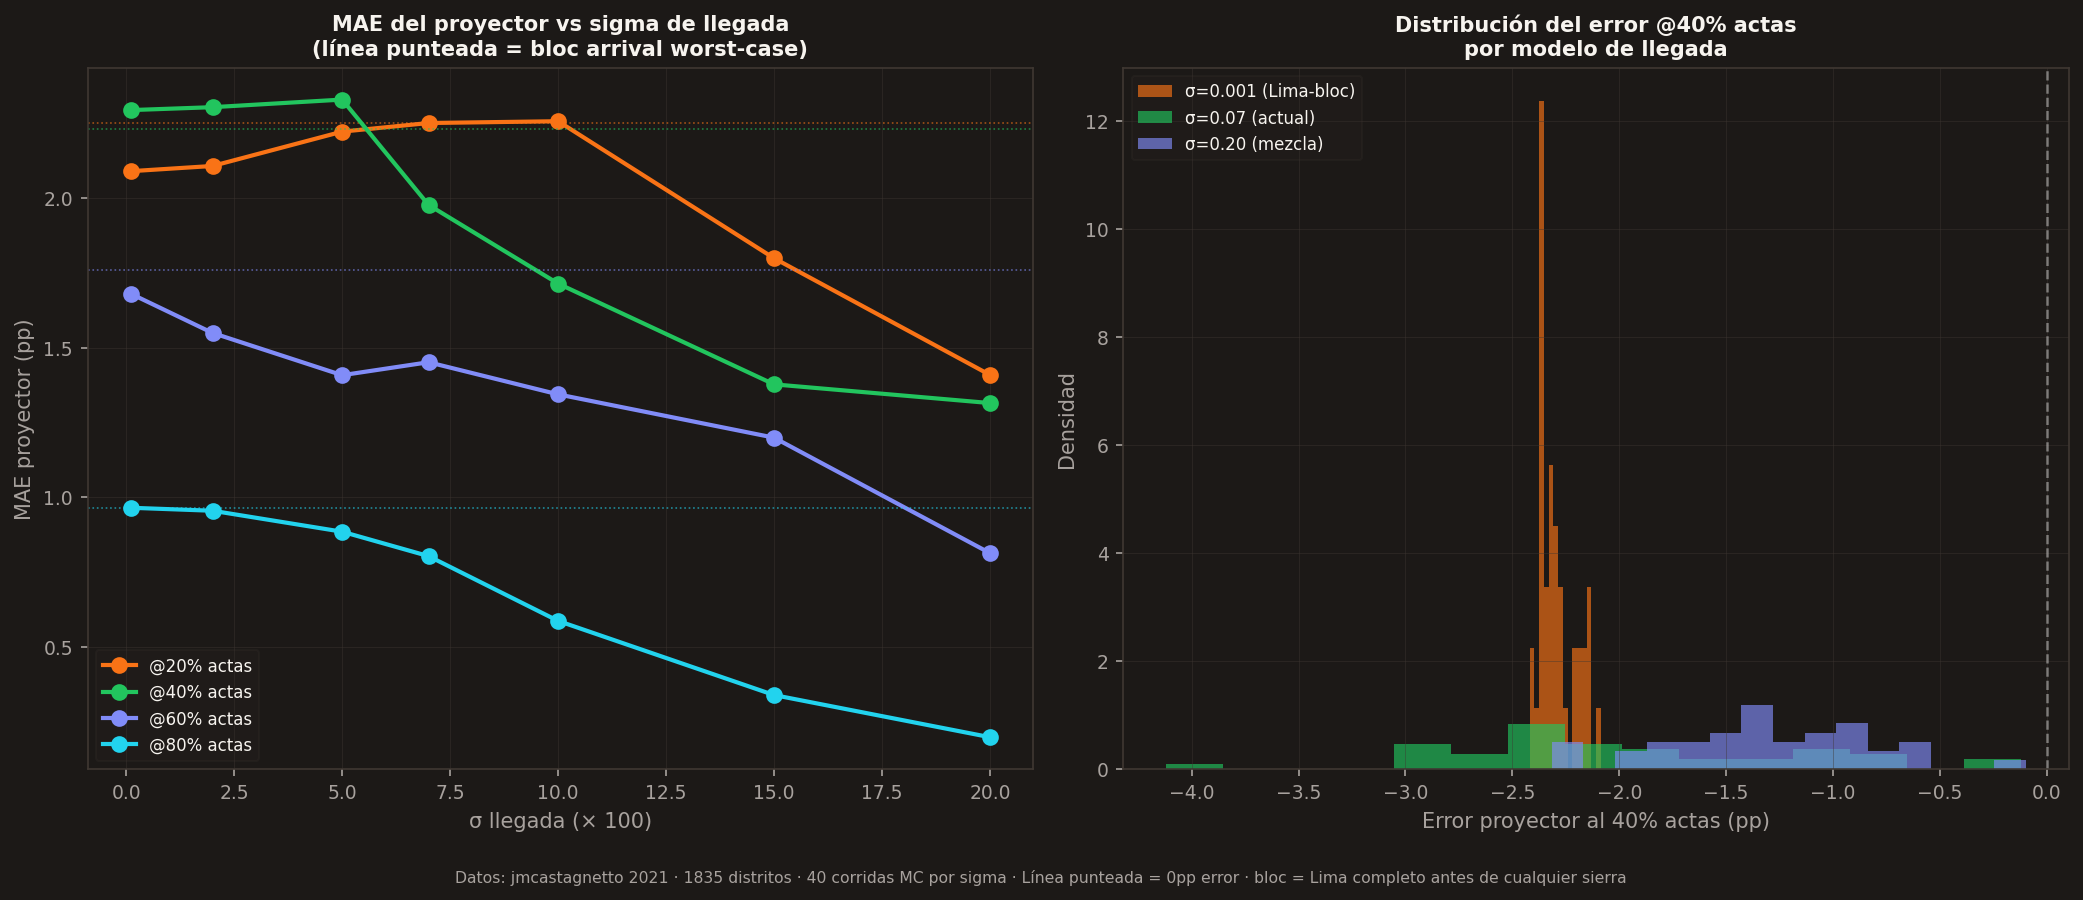
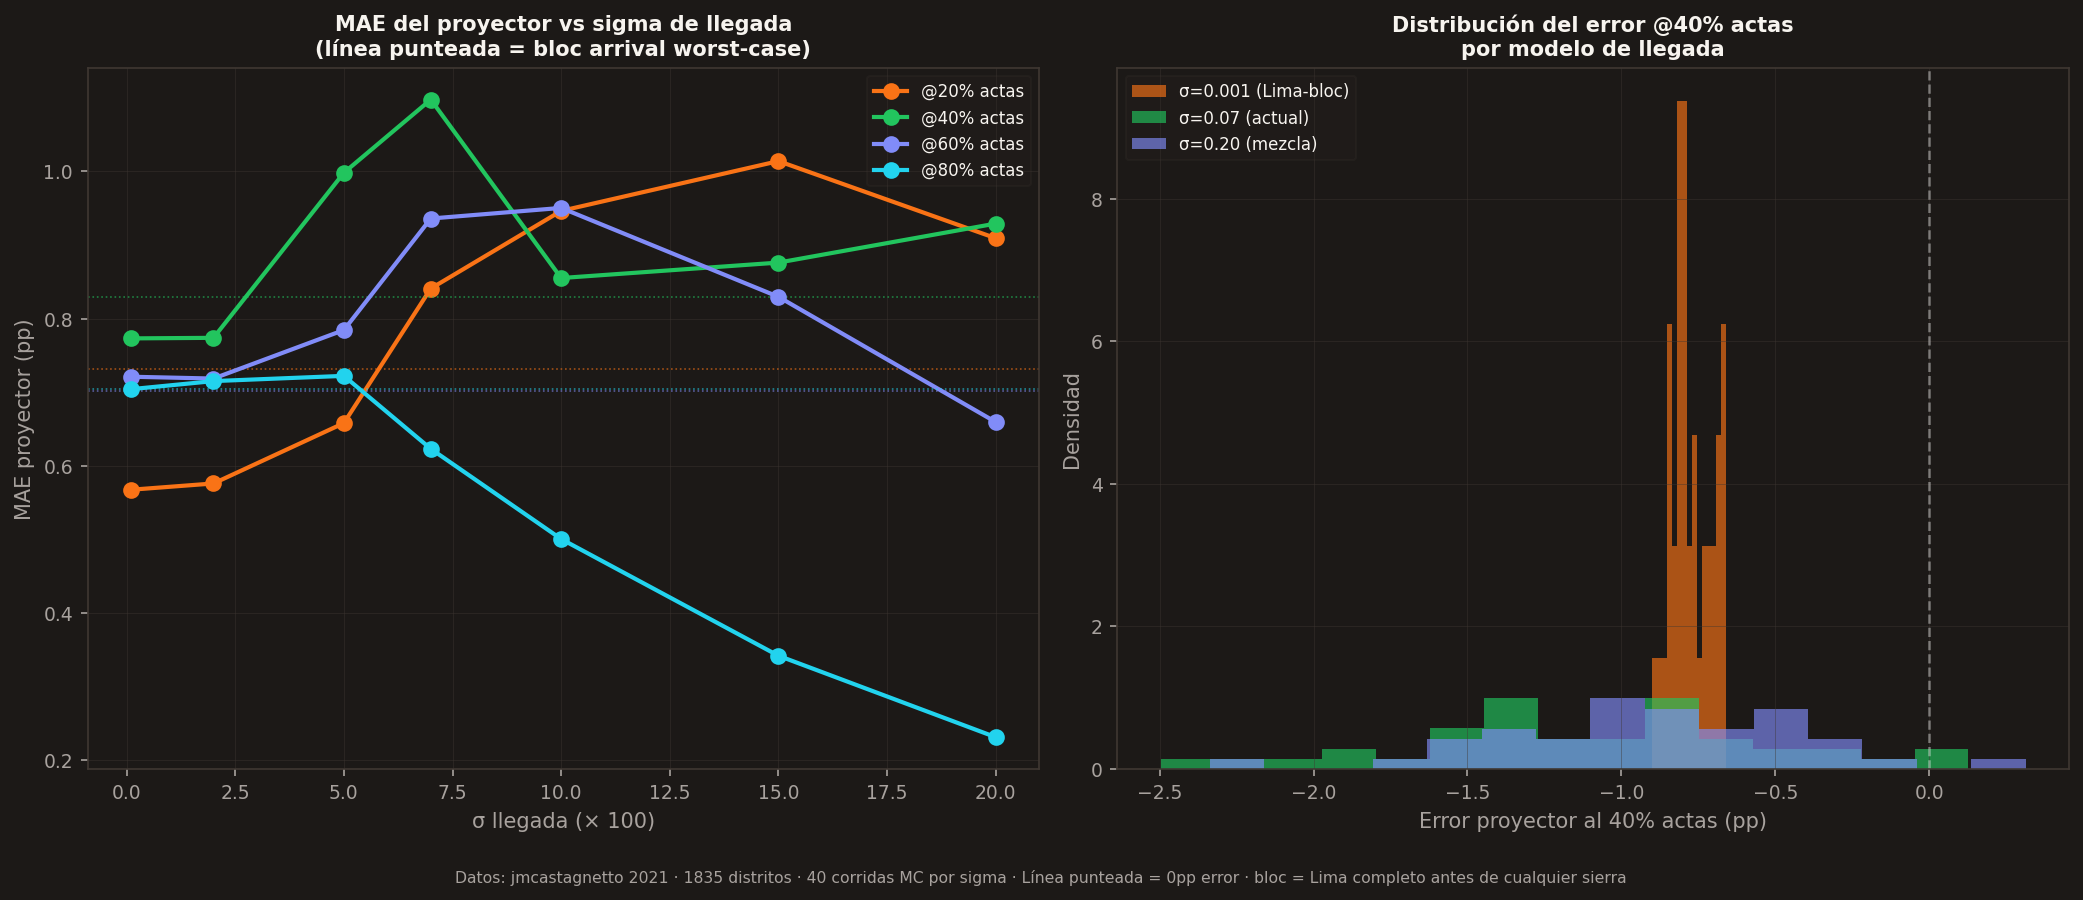
fix(sandbox): apply zero-fallback to analyze_sigma_arrival.py + regenerate chart
MAE @40% actas drops from ~2.3pp to ~0.8pp (Lima-bloc worst case).
Consistent with all other sandbox fixes (nat_shift → 0.0 for unreported depts).

https://claude.ai/code/session_01Y56eGPH4WjXKBPpbLhTJ6i

diff --git a/scripts/analyze_sigma_arrival.py b/scripts/analyze_sigma_arrival.py
@@ -118,7 +118,7 @@ def projector(districts, reported):
 
     total_kf = rep_kf; total_vv = rep_vv
     for d in unr:
-        shift = dept_shift.get(d['dept'], nat_shift)
+        shift = dept_shift.get(d['dept'], 0.0)
         total_kf += max(0, min(100, d['r1'] + shift)) * d['vv'] / 100
         total_vv += d['vv']
     return total_kf / total_vv * 100
